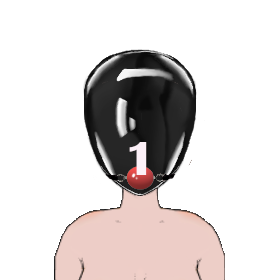
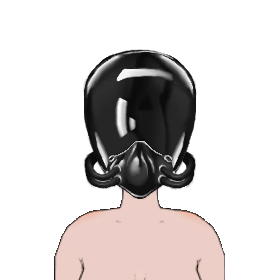
Change Mask Layering settings between Head and Hood variants

Changed region(s): [[0.2857, 0.4857, 0.7143, 0.7143]]

diff --git a/BondageClub/Assets/Female3DCG/Female3DCGExtended.js b/BondageClub/Assets/Female3DCG/Female3DCGExtended.js
@@ -2991,6 +2991,157 @@ var AssetFemale3DCGExtended = {
 		DroneMask: {
 			Archetype: ExtendedArchetype.MODULAR,
 			CopyConfig: { GroupName: "ItemHead", AssetName: "DroneMask" },
+			Config: {
+				Modules: [
+					{
+						Name: "Mouth", Key: "m",
+						Options:[
+							{ // m0 - None
+								Property: { Effect: ["BlockMouth"] }
+							},
+							{ // m1 - Onahole
+								Property: { Effect: ["GagMedium","OpenMouth"] }
+							},
+							{ // m2 - Fleshlight
+								Property: { Effect: ["GagMedium","OpenMouth"] }
+							},
+							{ // m3 - Smile
+								Property: { Effect: ["BlockMouth"] }
+							},
+							{ // m4 - Holes
+								Property: { Effect: ["BlockMouth"] }
+							},
+							{ // m5 - Sculpted
+								Property: { Effect: ["BlockMouth"] }
+							},
+							{ // m6 - Subtle
+								Property: { Effect: ["BlockMouth"] }
+							},
+						]
+					},
+					{
+						Name: "Eyes", Key: "e",
+						Options:[
+							{ // e0 - None
+								Property: { Effect: ["BlindLight"] }
+							},
+							{ // e1 - Regular
+								Property: { Effect: [] }
+							},
+							{ // e2 - Spiral
+								Property: { Effect: [] }
+							},
+							{ // e3 - Smile
+								Property: { Effect: [] }
+							},
+							{ // e4 - Holes
+								Property: { Effect: ["BlindLight"] }
+							},
+							{ // e5 - Sculpted
+								Property: { Effect: [] }
+							},
+							{ // e6 - Concave
+								Property: {Effect: ["BlindLight"] }
+							}
+
+						]
+					},
+					{
+						Name: "Pattern", Key: "p",
+						Options:[{},{},{},{},{},{HasSubscreen: true},] // Blank, Barcode, Scarab, Hex, Lines, Text
+					},
+					{
+						Name: "Glow", Key: "g",
+						Options: [{},{},] // Glow Off, Glow On
+					},
+					{
+						Name: "Sight", Key: "s",
+						Options: [
+							{ // s0 - Opaque
+								Property: { Effect: ["BlindHeavy", "Prone"] }
+							},
+							{ // s1 - One Way
+								Property: { Effect: [""] }
+							},
+						]
+					},
+					{
+						Name: "Helmet", Key: "h",
+						Options: [
+							{}, // h0 - Mask
+							{
+								Property: {
+									Hide: ["HairFront", "HairBack",], //"HairAccessory1", "HairAccessory2"],
+									HideItem: [
+										"HatBonnet1", "HatBonnet2", "HatBunnySuccubus2", "HatCrown1", "HatCrown2", "HatCrown4", "HatCrown5", "HatBand1",
+										"HatBand2", "HatPirateBandana1", "HatVeil1","HatVeil2", // Hat items
+										"MaskFuturisticVisor", "MaskShinobiMask", // Mask items
+										"HairAccessory3Ribbons4", // HairAccessory items
+										"HairAccessory1Antennae", "HairAccessory1BunnyEars1", "HairAccessory1BunnyEars2", "HairAccessory1CowHorns", "HairAccessory1ElfEars",
+										"HairAccessory1Ears1", "HairAccessory1Ears2", "HairAccessory1FoxEars1", "HairAccessory1FoxEars2", "HairAccessory1FoxEars3",
+										"HairAccessory1KittenEars1", "HairAccessory1KittenEars2", "HairAccessory1MouseEars1", "HairAccessory1MouseEars2",
+										"HairAccessory1PuppyEars1", "HairAccessory1Ribbons2", "HairAccessory1WolfEars1", "HairAccessory1WolfEars2",
+										"HairAccessory1Ribbons4", // Ear items (HA1)
+										"HairAccessory2Antennae", "HairAccessory2BunnyEars1", "HairAccessory2BunnyEars2", "HairAccessory2CowHorns", "HairAccessory2ElfEars",
+										"HairAccessory2Ears1", "HairAccessory2Ears2", "HairAccessory2FoxEars1", "HairAccessory2FoxEars2", "HairAccessory2FoxEars3",
+										"HairAccessory2KittenEars1", "HairAccessory2KittenEars2", "HairAccessory2MouseEars1", "HairAccessory2MouseEars2",
+										"HairAccessory2PuppyEars1", "HairAccessory2Ribbons2", "HairAccessory2WolfEars1", "HairAccessory2WolfEars2", // Ear items (HA2)
+									], // These items are hidden because they have clear mismatch issues with the hood.
+								},
+							}, // h1 - Helmet (hood)
+							{ // h2 - Helmet ( hood but nothing shows)
+								Property: {
+									Hide: ["HairFront", "HairBack", "Hat", "HairAccessory1", "HairAccessory2", "HairAccessory3"],
+									HideItem: ["MaskFuturisticVisor", "MaskShinobiMask",],
+								},
+							},
+						]
+					},
+					{
+						Name: "Layering", Key: "j",
+						Options: [
+							{
+								Property:{
+									Block: ["ItemMouth", "ItemMouth2", "ItemMouth3", "ItemHead"],
+									Hide: ["ItemMouth", "ItemMouth2", "ItemMouth3", "ItemHead"],
+								}
+							}, // No gags or blindfolds visible
+							{
+								Property:{
+									Block: ["ItemMouth", "ItemMouth2","ItemHead"],
+									Hide: ["ItemMouth", "ItemMouth2","ItemHead"],
+								}
+							}, // Highest layer gag visible
+							{
+								Property:{
+									Block: ["ItemMouth", "ItemHead"],
+									Hide: ["ItemMouth", "ItemHead"],
+								}
+							}, // All gags visible
+							{
+								Property:{
+									Block: ["ItemMouth", "ItemMouth2", "ItemMouth3"],
+									Hide: ["ItemMouth", "ItemMouth2", "ItemMouth3"],
+								}
+							}, // Blindfold items visible
+							{
+								Property:{
+									Block: ["ItemMouth", "ItemMouth2",],
+									Hide: ["ItemMouth", "ItemMouth2",],
+								}
+							}, // Blindfold and highest layer gag
+							{
+								Property:{
+									Block: [],
+									Hide: [],
+								}
+							}, // Blindfold and all gags
+						
+						]
+
+					},
+				]
+			}
 		}, // DroneMask
 	}, // ItemHood
 	ItemDevices: {
@@ -7900,12 +8051,6 @@ var AssetFemale3DCGExtended = {
 									Hide: ["ItemMouth", "ItemMouth2"],
 								}
 							}, // Highest layer gag visible
-							{
-								Property:{
-									Block: ["ItemMouth"],
-									Hide: ["ItemMouth"],
-								}
-							}, // Both highest and middle gag visible
 							{
 								Property:{
 									Block: [],

diff --git a/BondageClub/Assets/Female3DCG/Female3DCG.js b/BondageClub/Assets/Female3DCG/Female3DCG.js
@@ -6761,8 +6761,8 @@ var AssetFemale3DCG = [
 				Name: "DroneMask", Category: ["SciFi"], Fetish: ["Latex"], Value: -1, Difficulty: 5, DefaultColor: ["#222222", "#CCCCCC", "#7F7F7F", "#00F4FD", "#E700CA", ], Time: 10, AllowLock: true, DrawLocks: false, Extended: true, DynamicAfterDraw: true,
 				DynamicGroupName: "ItemHead",
 				BuyGroup: "DroneMask",
-				Block:["ItemNose", "ItemHead"],
-				Hide: ["Glasses", "Blush", "ItemHead"],
+				Block:["ItemNose"],
+				Hide: ["Glasses", "Blush"],
 				HideItem: ["HatFacePaint", "MaskFacePaint", "ClothAccessoryFacePaint"],
 				Layer: [ // Colors layer references: Base, Shine, EyeRegular, MouthOnahole, Barcode
 					{ Name: "Base", HasType: false, AllowModuleTypes: ["h0"] },
